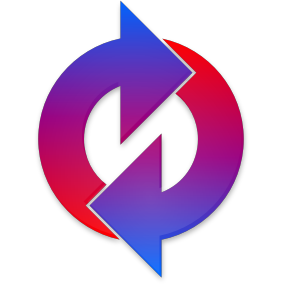
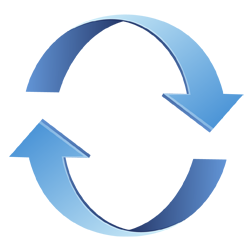
Change move, rotate picture

diff --git a/UI/Controls/InstructionPanel.xaml b/UI/Controls/InstructionPanel.xaml
@@ -1,42 +1,41 @@
 <UserControl x:Class="iRobotGUI.Controls.InstructionPanel"
-             xmlns="http://schemas.microsoft.com/winfx/2006/xaml/presentation"
-             xmlns:x="http://schemas.microsoft.com/winfx/2006/xaml"
-             xmlns:mc="http://schemas.openxmlformats.org/markup-compatibility/2006" 
-             xmlns:d="http://schemas.microsoft.com/expression/blend/2008" 
-             mc:Ignorable="d" Width="210" Height="450">
-    <UserControl.Resources>
-        <Style TargetType="Image">
-            <Setter Property="Width" Value="45" />
-            <Setter Property="Height" Value="45" />
-            <Setter Property="Stretch" Value="Fill" />
-            <Setter Property="HorizontalAlignment" Value="Left" />
-            <Setter Property="VerticalAlignment" Value="Top" />
-            <Setter Property="RenderOptions.BitmapScalingMode" Value="HighQuality" />
-            <Setter Property="ToolTipService.ShowDuration" Value="100000" />
-            <EventSetter Event="MouseDown" Handler="MouseMove_General" />
-        </Style>
+			 xmlns="http://schemas.microsoft.com/winfx/2006/xaml/presentation"
+			 xmlns:x="http://schemas.microsoft.com/winfx/2006/xaml"
+			 xmlns:mc="http://schemas.openxmlformats.org/markup-compatibility/2006" 
+			 xmlns:d="http://schemas.microsoft.com/expression/blend/2008" 
+			 mc:Ignorable="d" Width="233" Height="450">
+	<UserControl.Resources>
+		<Style TargetType="Image">
+			<Setter Property="Width" Value="45" />
+			<Setter Property="Height" Value="45" />
+			<Setter Property="Stretch" Value="Fill" />
+			<Setter Property="HorizontalAlignment" Value="Left" />
+			<Setter Property="VerticalAlignment" Value="Top" />
+			<Setter Property="RenderOptions.BitmapScalingMode" Value="HighQuality" />
+			<Setter Property="ToolTipService.ShowDuration" Value="100000" />
+			<EventSetter Event="MouseDown" Handler="MouseMove_General" />
+		</Style>
 
-        <Style x:Key="LabelStyle" TargetType="Label">
-            <Setter Property="HorizontalAlignment" Value="Left" />
-            <Setter Property="VerticalAlignment" Value="Top" />
-        </Style>
-    </UserControl.Resources>
-    <Grid Grid.Row="1" Grid.Column="0">
+		<Style x:Key="LabelStyle" TargetType="Label">
+			<Setter Property="HorizontalAlignment" Value="Left" />
+			<Setter Property="VerticalAlignment" Value="Top" />
+		</Style>
+	</UserControl.Resources>
+	<Grid Grid.Row="1" Grid.Column="0">
 
-        <Label Content="Navigation"    Style="{StaticResource LabelStyle}" Margin="30,10,0,0"   />
-        <Label Content="LED and Sound" Style="{StaticResource LabelStyle}" Margin="30,140,0,0"  />
-        <Label Content="Other"         Style="{StaticResource LabelStyle}" Margin="30,317,0,0" />
-        <Label Content="Logic"         Style="{StaticResource LabelStyle}" Margin="30,236,0,0" />
+		<Label Content="Navigation"    Style="{StaticResource LabelStyle}" Margin="30,10,0,0"   />
+		<Label Content="LED and Sound" Style="{StaticResource LabelStyle}" Margin="30,107,0,0"  />
+		<Label Content="Other"         Style="{StaticResource LabelStyle}" Margin="30,284,0,0" />
+		<Label Content="Logic"         Style="{StaticResource LabelStyle}" Margin="30,203,0,0" />
 
-        <Image Source="/iRobotGUI;component/pic/move.png"  Tag="MOVE"  Margin="81,62,0,0"   ToolTip="Move forward" />
-		<Image Source="/iRobotGUI;component/pic/rotation.png" Tag="ROTATE"     Margin="31,62,0,0"   ToolTip="Rotate left" />
-        <Image Source="/iRobotGUI;component/pic/drive.jpg"    Tag="DRIVE"    Margin="131,62,0,0"  ToolTip="Rotate right" />
-        <Image Source="/iRobotGUI;component/pic/led.jpg"      Tag="LED"      Margin="31,171,0,0"  ToolTip="Turn on/off the LED" />
-        <Image Source="/iRobotGUI;component/pic/song.png"     Tag="SONG_DEF" Margin="81,171,0,0"  ToolTip="Define a song" />
-        <Image Source="/iRobotGUI;component/pic/if.png"       Tag="IF"       Margin="31,267,0,0"  ToolTip="If" />
-        <Image Source="/iRobotGUI;component/pic/loop.png"     Tag="LOOP"     Margin="81,267,0,0"  ToolTip="Loop" />
-        <Image Source="/iRobotGUI;component/pic/demo.jpg"     Tag="DEMO"     Margin="34,348,0,0"  ToolTip="Play a demo" />
-        <Image Source="/iRobotGUI;component/pic/delay.png"    Tag="DELAY"    Margin="81,348,0,0"  ToolTip="Delay" />
-
-    </Grid>
+		<Image Source="/iRobotGUI;component/pic/move.png"   Tag="MOVE"     Margin="30,41,0,0"   ToolTip="Move forward" />
+		<Image Source="/iRobotGUI;component/pic/rotate.png" Tag="ROTATE"   Margin="81,41,0,0"   ToolTip="Rotate left" />
+		<Image Source="/iRobotGUI;component/pic/drive.png"  Tag="DRIVE"    Margin="131,41,0,0"  ToolTip="Rotate right" />
+		<Image Source="/iRobotGUI;component/pic/led.jpg"    Tag="LED"      Margin="31,138,0,0"  ToolTip="Turn on/off the LED" />
+		<Image Source="/iRobotGUI;component/pic/song.png"   Tag="SONG_DEF" Margin="81,138,0,0"  ToolTip="Define a song" />
+		<Image Source="/iRobotGUI;component/pic/if.png"     Tag="IF"       Margin="31,234,0,0"  ToolTip="If" />
+		<Image Source="/iRobotGUI;component/pic/loop.png"   Tag="LOOP"     Margin="81,234,0,0"  ToolTip="Loop" />
+		<Image Source="/iRobotGUI;component/pic/demo.jpg"   Tag="DEMO"     Margin="34,315,0,0"  ToolTip="Play a demo" />
+		<Image Source="/iRobotGUI;component/pic/delay.png"  Tag="DELAY"    Margin="81,315,0,0"  ToolTip="Delay" />
+	</Grid>
 </UserControl>

diff --git a/HighLevelProgram/Instruction.cs b/HighLevelProgram/Instruction.cs
@@ -138,10 +138,13 @@ namespace iRobotGUI
 			switch (opcode)
 			{
 				case MOVE:
-					newIns = new Instruction(Instruction.MOVE + " 500,3");
+					newIns = new Instruction(Instruction.MOVE + " 0,0");
 					break;
 				case ROTATE:
-					newIns = new Instruction(Instruction.ROTATE + " 90");
+					newIns = new Instruction(Instruction.ROTATE + " 0");
+					break;
+				case DRIVE:
+					newIns = new Instruction(DRIVE + " 0,0");
 					break;
 				/*
 				case FORWARD:
